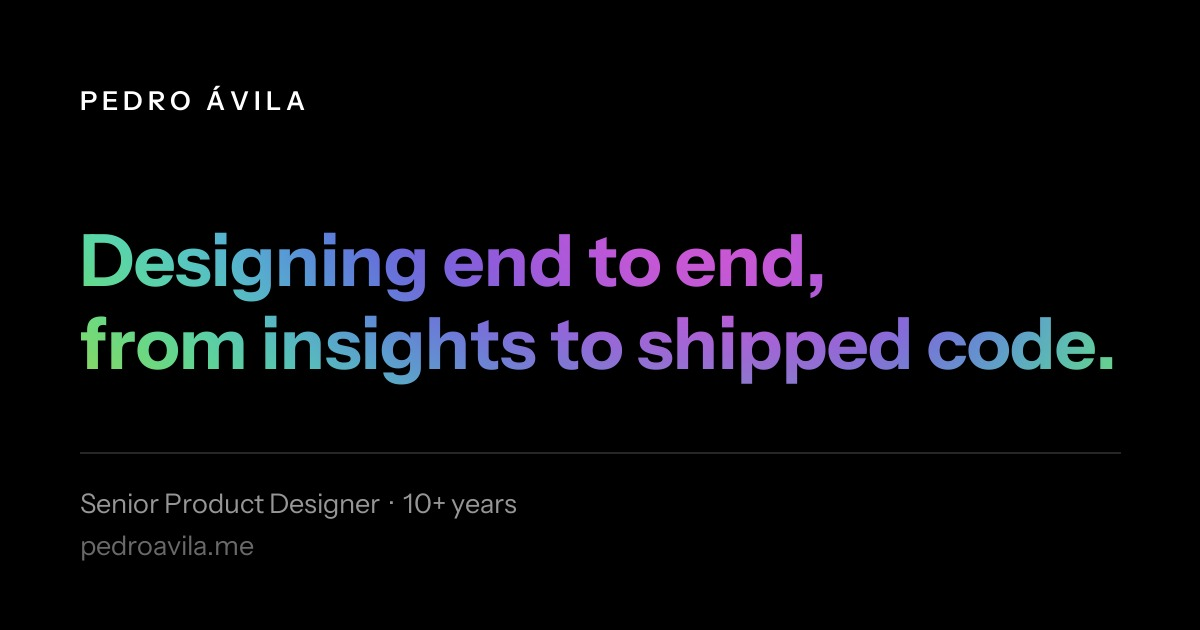
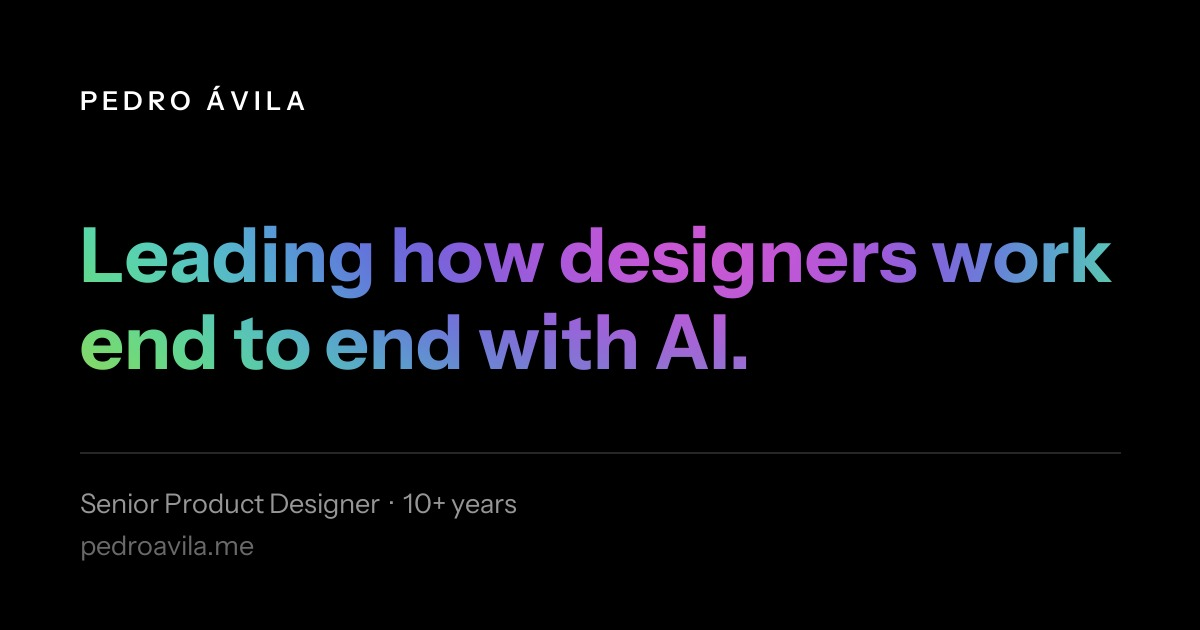
og: match the social card to the new home headline

Changed region(s): [[0.0617, 0.3619, 0.925, 0.6333]]

diff --git a/index.html b/index.html
@@ -27,7 +27,7 @@
     <meta property="og:image" content="https://pedroavila.me/og-image.jpg" />
     <meta property="og:image:width" content="1200" />
     <meta property="og:image:height" content="630" />
-    <meta property="og:image:alt" content="Pedro Ávila — Designing end to end, from insights to shipped code." />
+    <meta property="og:image:alt" content="Pedro Ávila — Leading how designers work end to end with AI." />
     <meta property="og:locale" content="en_US" />
 
     <meta name="twitter:card" content="summary_large_image" />

diff --git a/scripts/make_og.py b/scripts/make_og.py
@@ -16,7 +16,7 @@ FONTS = os.path.expanduser("~/Library/Fonts")
 semi = ImageFont.truetype(f"{FONTS}/InstrumentSans-SemiBold.ttf", 26)
 reg = ImageFont.truetype(f"{FONTS}/InstrumentSans-Regular.ttf", 27)
 
-HEADLINE = ["Designing end to end,", "from insights to shipped code."]
+HEADLINE = ["Leading how designers work", "end to end with AI."]
 
 
 def fit_headline(lines, max_width, start=108, floor=44):
